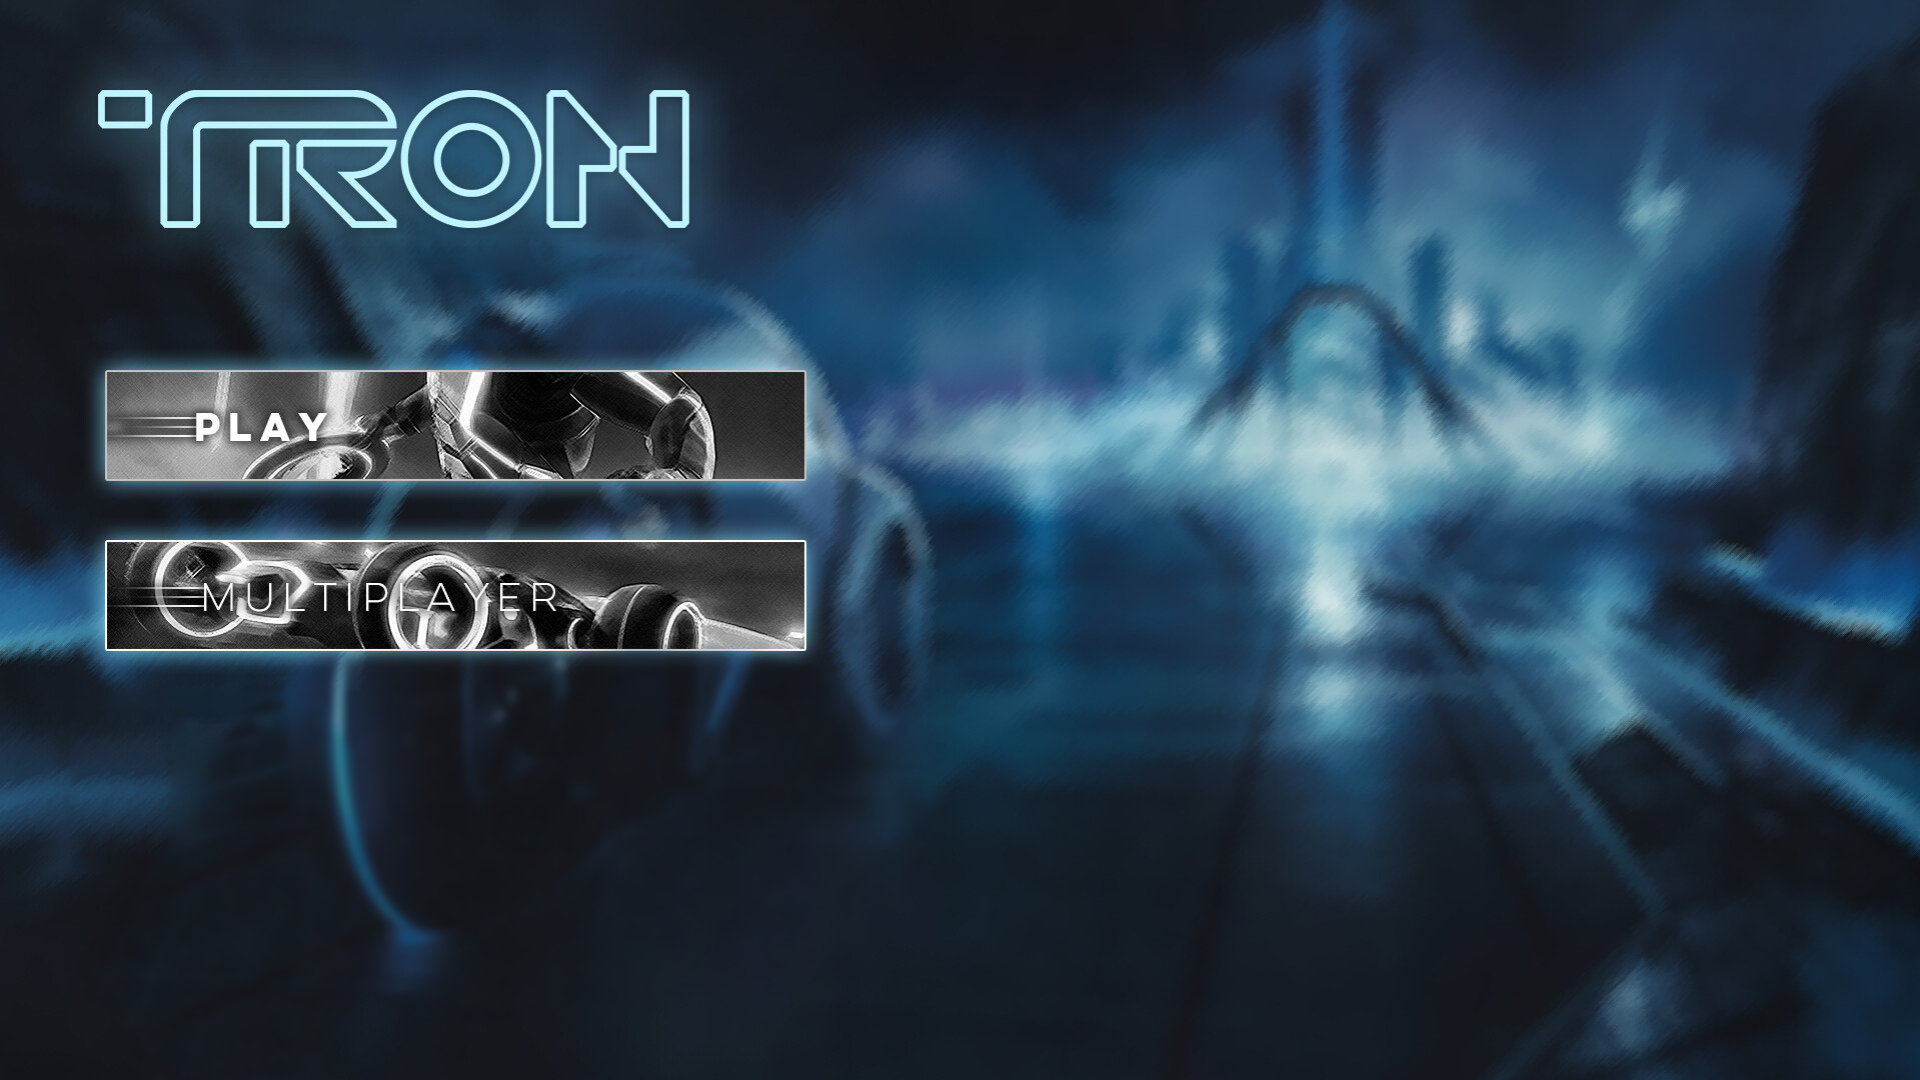
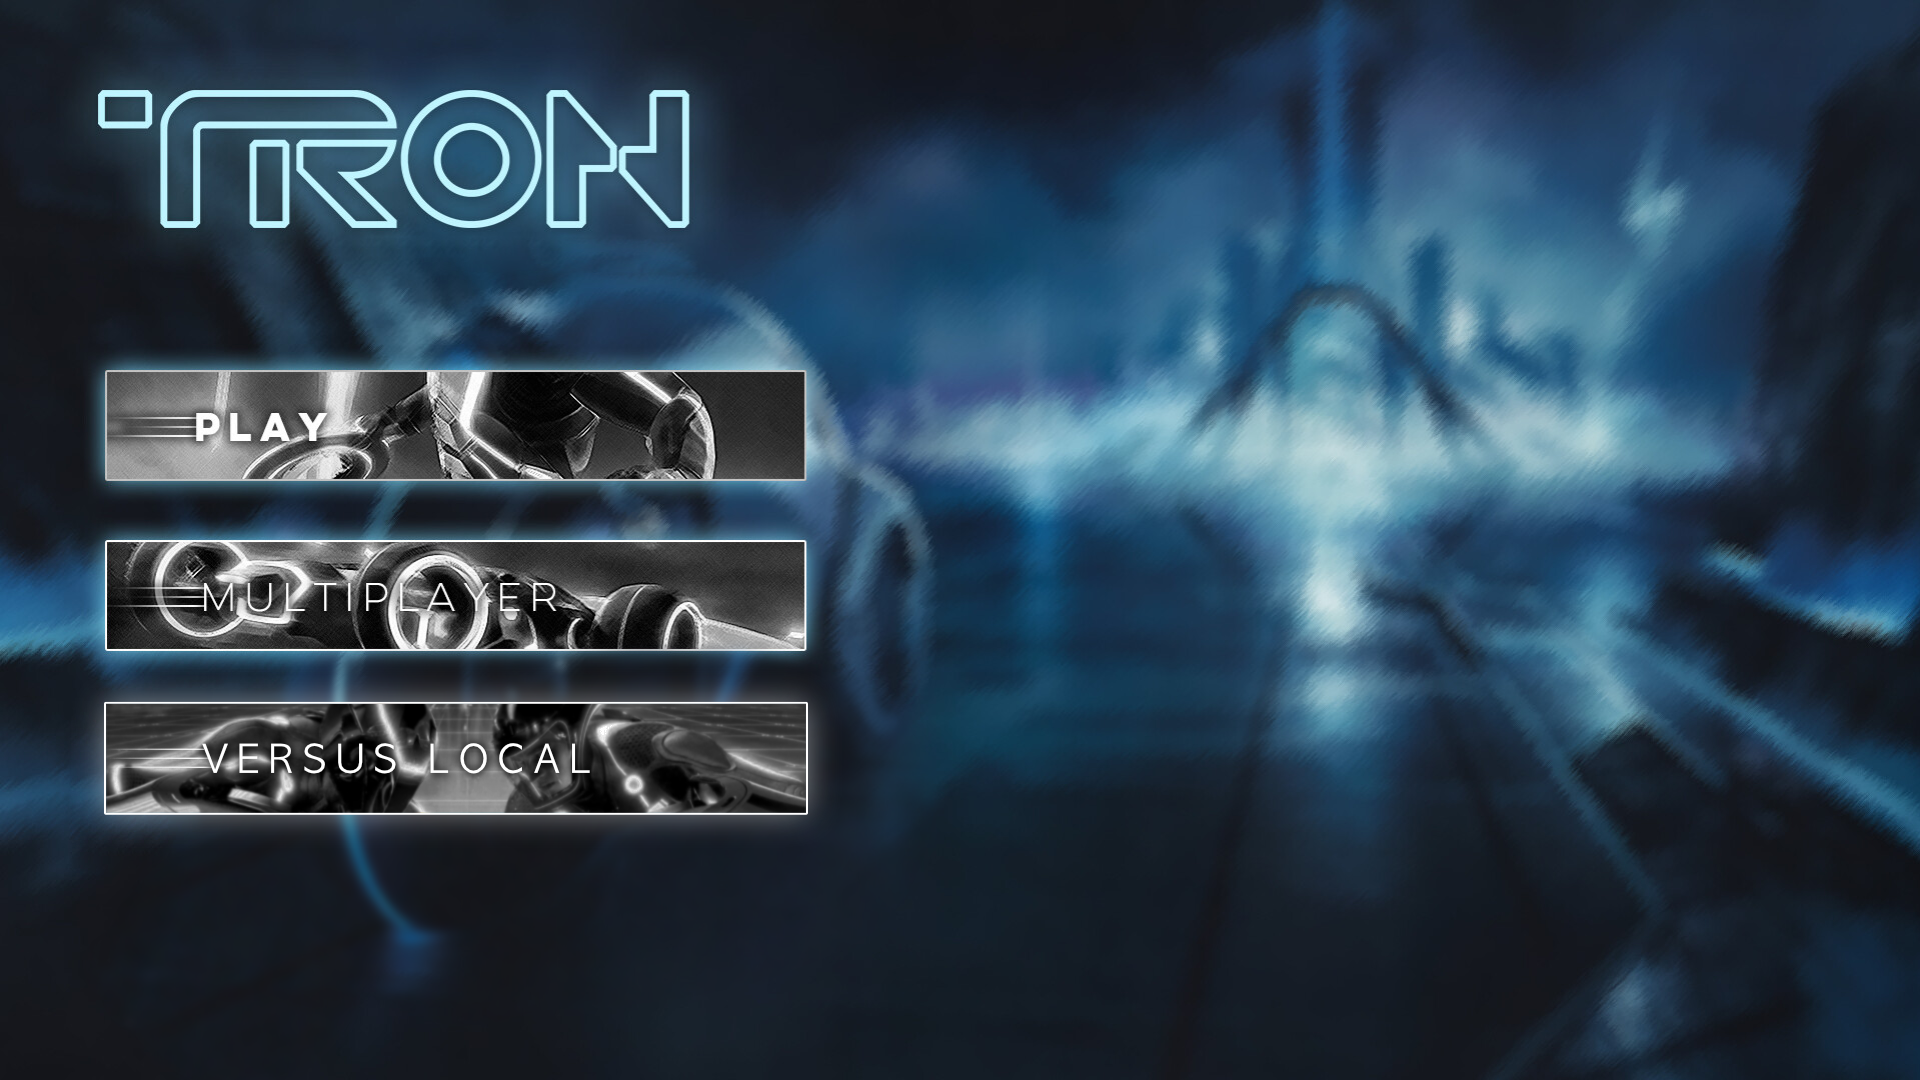
add versus local

Changed region(s): [[0.0312, 0.6417, 0.4375, 0.7639]]

diff --git a/src/Online/server.cpp b/src/Online/server.cpp
@@ -8,42 +8,66 @@
 #include <thread>
 #include "tools.hpp"
 #include "player.hpp"
+#include "timer.hpp"
+
+void	simulateGame(NetworkLogic& networkLogic, GameBoard& board, int time) {
+	static bool start = false;
+
+	if (time > 2000 && !start) {
+		start = true;
+		time = 0;
+		unsigned long sendAt = GETTIMEMS();
+		std::string message = "S " + std::to_string(sendAt);
+		std::cout << "SENDING : " << message << std::endl;
+		networkLogic.sendDirect(message);
+	}
+	if (!start) {
+		board.turn();
+		return;
+	}
+	while (time > 15) {
+		time -= 15;
+		board.turn();
+		board.move();
+	}
+}
 
 void	gameStartedServer(NetworkLogic& networkLogic) {
-	// GameBoard	gameBoard;
-	// int			nbPlayer = networkLogic.getNumberOfPlayer();
-	// std::vector<DIRECTION>	direction;
+	GameBoard	gameBoard;
+	int			nbPlayer = networkLogic.getNumberOfPlayer();
+	Timer		gameTimer;
+	int			time = 0;
 
-	// gameBoard.initBoard(NULL, nbPlayer, 0);
+	gameBoard.initBoard(NULL, nbPlayer, 0);
 	// for (int i = 0; i < nbPlayer; i++) {
 	// 	direction.push_back(gameBoard.getDirection(i));
 	// }
+	gameTimer.start();
 	while (1) {
 		if (networkLogic.isUpdate()) {
 			std::vector<std::string> updates = networkLogic.getUpdate();
 			for (std::string str : updates) {
 				if (str[0] == 'D') {
-					// int n = str[1] - '0';
-					// int d = str[2] - '0';
-					// gameBoard.setNextDirection(n, (DIRECTION)d);
+					int n = str[1] - '0' - 1;
+					int d = str[2] - '0';
+					gameBoard.setNextDirection(n, (DIRECTION)d);
+					std::cout << "get HEAD : " << n << std::endl;
+					auto [x, y] = gameBoard.getHead(n);
 					std::cout << "SERVER SEND MESSAGE" << std::endl;
-					networkLogic.sendDirect(str);
+					unsigned long sendAt = GETTIMEMS();
+					std::string messsage = str + " " + std::to_string(x) + " " + std::to_string(y) + " " + std::to_string(sendAt);
+					networkLogic.sendDirect(messsage);
 				}
 				networkLogic.setUpdate(false);
 			}
 		}
+		time += gameTimer.getTicks();
+		simulateGame(networkLogic, gameBoard, time);
+		gameTimer.start();
 		networkLogic.run();
 		Console::get().update();
 		SLEEP(10);
-
 	}
-	// 	gameBoard.turn();
-	// 	gameBoard.move();
-	// 	networkLogic.sendDirect(gameBoard.gameBoardToString());
-	// 	networkLogic.run();
-	// 	Console::get().update();
-	// 	SLEEP(10);
-	// }
 }
 
 void	lobbyServer(NetworkLogic& networkLogic) {

diff --git a/src/Player/gameBoard.cpp b/src/Player/gameBoard.cpp
@@ -5,7 +5,33 @@
 #include <iostream>
 #include <sstream>
 
+
+void	GameBoard::initBoardLocal(SDL_Renderer *renderer) {
+	nbPlayers = 2;
+	currentPlayer = 0;
+	std::vector<std::string>	color = {"Blue", "Orange", "Green", "Purple"};
+	std::vector<Position>		playerSpawnPosition({{10, 10}, {164, 120}, {164, 10},  {10, 120}});
+	std::vector<DIRECTION>		playerSpawnDirection({DIRECTION::RIGHT, DIRECTION::LEFT, DIRECTION::RIGHT, DIRECTION::LEFT});
+
+	map = std::vector<std::vector<CELL_TYPE>>(MAP_HEIGHT, std::vector<CELL_TYPE>(MAP_WIDTH, CELL_TYPE::EMPTY));
+	for (int i = 0; i < 2; i++) {
+		players.push_back({playerSpawnPosition[i].first, playerSpawnPosition[i].second, playerSpawnDirection[i], &map});
+		players[i].initPlayer(renderer, i);
+	}
+	if (renderer != NULL) {
+		std::string boardTexturePath = "ressources/twoPlayerLocal/background.png";
+		boardTexture = IMG_LoadTexture(renderer, boardTexturePath.c_str());
+	} 
+
+}
+
 void	GameBoard::initBoard(SDL_Renderer *renderer, int nbPlayers_, int currentPlayer_) {
+	std::cout << "[[--HERE--]] : " << currentPlayer_ << std::endl;
+	if (currentPlayer_ == -1) {
+		initBoardLocal(renderer);
+		std::cout << "[[HERE]]" << std::endl;
+		return ;
+	}
 	nbPlayers = nbPlayers_;
 	currentPlayer = currentPlayer_;
 	std::vector<std::string>	color = {"Blue", "Orange", "Green", "Purple"};
@@ -110,4 +136,12 @@ void		GameBoard::increaseScore(int player) {
 
 int			GameBoard::getScore(int player) {
 	return players[player].getScore();
+}
+
+Position	GameBoard::getHead(int player) {
+	return players[player].getHead();
+}
+
+void		GameBoard::updatePlayer(int player, int x, int y, DIRECTION direction_) {
+	players[player].updatePlayer(x, y, direction_);
 }

diff --git a/src/Scenes/onlineGameScene.cpp b/src/Scenes/onlineGameScene.cpp
@@ -1,9 +1,11 @@
+#include "networkLogic.h"
 #include "game.hpp"
 #include "tools.hpp"
 #include <iostream>
 #include "timer.hpp"
 #include <string>
 #include "online.hpp"
+#include <sstream>
 
 void OnlineGameScene::handleEvents(Game* game) {
 	static SDL_Event	event;
@@ -68,19 +70,32 @@ void OnlineGameScene::updateScene(GameWindow& window, int deltaTime) {
 	Scene::updateScene(window, deltaTime);
 	static bool start = false;
 
-	if (time > 2000 && !start) {
-		start = true;
-		time = 0;
-	}
-
 	gameOnlineInfo *gameInfo = &game->getGameInfo();
 	if (gameInfo->updateServer) {
 		if (gameInfo->updateType == UpdateType::UPDATE_GAME) {
 			std::string	str = gameInfo->gameBoardStr;
-			int n = str[1] - '0' - 1;
-			int d = str[2] - '0';
-			std::cout << "n: " << n << " d: " << d << std::endl;
-			board.setNextDirection(n, (DIRECTION)d);
+			if (str[0] == 'S') {
+				unsigned long sendAt = std::stoul(str.substr(2));
+				time = sendAt - GETTIMEMS();
+				start = true;
+			} else {
+				std::string		str1;
+				int				x;
+				int				y;
+				unsigned long	sendAt;
+				//lis x, y et le temps ou le message a ete recu a partir du 4eme caractere
+				std::stringstream ss(str);
+				ss >> str1 >> x >> y >> sendAt;
+				time = GETTIMEMS() - sendAt;
+
+				std::cout << "NEW TIME : " << time << std::endl;
+
+				int n = str1[1] - '0' - 1;
+				int d = str1[2] - '0';
+				std::cout << "n: " << n << " d: " << d << std::endl;
+				board.setNextDirection(n, (DIRECTION)d);
+				// board.updatePlayer(n, x, y, (DIRECTION)d);
+			}
 		}
 		gameInfo->updateServer = false;
 	}

diff --git a/src/Scenes/twoPlayerLocalScene.cpp b/src/Scenes/twoPlayerLocalScene.cpp
@@ -56,7 +56,9 @@ void TwoPlayerLocalScene::handleEvents(Game* game) {
 
 void TwoPlayerLocalScene::initScene(GameWindow& window) {
 	std::cout << "[[TwoPlayerLocalScene]]" << std::endl;
-	board.initBoard(window.getRenderer(), 2, 0);
+	board.initBoard(window.getRenderer(), 2, -1);
+	crownP1 = IMG_LoadTexture(window.getRenderer(), "ressources/twoPlayerLocal/blue_crown.png");
+	crownP2 = IMG_LoadTexture(window.getRenderer(), "ressources/twoPlayerLocal/orange_crown.png");
 }
 
 void TwoPlayerLocalScene::updateScene(GameWindow& window, int deltaTime) {
@@ -95,6 +97,13 @@ void TwoPlayerLocalScene::updateScene(GameWindow& window, int deltaTime) {
 
 void TwoPlayerLocalScene::renderObjects(GameWindow& window) {
 	board.render(window.getRenderer());
-	window.drawNumber(board.getScore(0), 254, 370);
-	window.drawNumber(board.getScore(1), 254, 670);
+	if (board.getScore(0) > board.getScore(1)) {
+		SDL_Rect rect = {97, 326, 327 , 253};
+		SDL_RenderCopy(window.getRenderer(), crownP1, NULL, &rect);
+	} else if (board.getScore(1) > board.getScore(0)) {
+		SDL_Rect rect = {97, 666, 327 , 253};
+		SDL_RenderCopy(window.getRenderer(), crownP2, NULL, &rect);
+	}
+	window.drawNumber(board.getScore(0), 260, 490, 3);
+	window.drawNumber(board.getScore(1), 254, 828, 3);
 }

diff --git a/src/Scenes/mainMenuScene.cpp b/src/Scenes/mainMenuScene.cpp
@@ -35,6 +35,10 @@ void MainMenuScene::initScene(GameWindow& window) {
 	// Button multiPlayer(window.getRenderer(), {105, 540, 701, 111}, NULL, goToTwoPlayers);
 	Button multiPlayer(window.getRenderer(), {105, 540, 701, 111}, NULL, joinOrCreateRoom);
 	multiPlayer.addOverTexture(window.getRenderer(), {15, 166, 255, 152});
+
+	Button localVersus(window.getRenderer(), {105, 704, 701, 111}, NULL, goToTwoPlayers);
+	localVersus.addOverTexture(window.getRenderer(), {15, 166, 255, 152});
+
 	SDL_Texture *exitButtonOff = IMG_LoadTexture(window.getRenderer(), "ressources/menu/btn/btnOff.png");
 	SDL_Texture *exitButtonOn = IMG_LoadTexture(window.getRenderer(), "ressources/menu/btn/btnOn.png");
 	Button exit(window.getRenderer(), {108, 934, 185, 74}, exitButtonOff, exitGame);
@@ -46,7 +50,7 @@ void MainMenuScene::initScene(GameWindow& window) {
 	buttons.push_back(play);
 	buttons.push_back(multiPlayer);
 	buttons.push_back(exit);
-	// buttons.push_back(settings);
+	buttons.push_back(localVersus);
 	music = Mix_LoadMUS("ressources/mainMenu.mp3");
 	if (!music) {
 		fprintf(stderr, "Erreur lors du chargement de la musique [%s]: %s\n", "ressources/mainMenu.mp3", Mix_GetError());

diff --git a/inc/player.hpp b/inc/player.hpp
@@ -69,6 +69,7 @@ class TronPlayer {
 		void		turn();
 		void		setNextDirection(DIRECTION direction);
 		void		setDirection(DIRECTION direction);
+		void		updatePlayer(int x, int y, DIRECTION direction_);
 		DIRECTION	getDirection();
 		DIRECTION	getNextDirection();
 		void		increaseScore(int score);
@@ -101,12 +102,14 @@ class GameBoard {
 		GameBoard() {};
 		~GameBoard() {};
 		void		initBoard(SDL_Renderer *renderer, int nbPlayers_, int currentPlayer_);
+		void		initBoardLocal(SDL_Renderer *renderer);
 		void		move();
 		void		turn();
 		void		setNextDirection(int player, DIRECTION direction);
 		DIRECTION	getNextDirection(int player);
 		void		setDirection(int player, DIRECTION direction);
 		DIRECTION	getDirection(int player);
+		Position	getHead(int player);
 		bool		isAlive(int player);
 		void		die(int player);
 		void		render(SDL_Renderer *renderer);
@@ -115,6 +118,7 @@ class GameBoard {
 		void		reset();
 		void		increaseScore(int player);
 		int			getScore(int player);
+		void		updatePlayer(int player, int x, int y, DIRECTION direction_);
 	private:
 		std::vector<TronPlayer>							players;
 		Map												map;

diff --git a/src/Player/tronPlayer.cpp b/src/Player/tronPlayer.cpp
@@ -77,6 +77,18 @@ void	TronPlayer::setDirection(DIRECTION direction) {
 	this->direction = direction;
 }
 
+void	TronPlayer::updatePlayer(int x, int y, DIRECTION direction_) {
+	setNextDirection(direction_);
+	for (SnakeBody::iterator it = std::find(body.begin(), body.end(), std::make_pair(x, y)); it >= body.begin(); it--) {
+		map->at(it->second)[it->first] = CELL_TYPE::EMPTY;
+	}
+	if (std::find(body.begin(), body.end(), std::make_pair(x, y)) != body.end()) {
+		body.erase(body.begin(), std::find(body.begin(), body.end(), std::make_pair(x, y)));
+	}
+	body.insert(body.begin(), std::make_pair(x, y));
+	map->at(y)[x] = CELL_TYPE::SNAKE;
+}
+
 void	TronPlayer::setNextDirection(DIRECTION direction) {
 	this->nextDirection = direction;
 }

diff --git a/src/Online/client.cpp b/src/Online/client.cpp
@@ -32,6 +32,10 @@ void	gameStartedClient(NetworkLogic &networkLogic, gameOnlineInfo *gameInfo) {
 					gameInfo->updateServer = true;
 					gameInfo->gameBoardStr = str;
 					gameInfo->updateType = UpdateType::UPDATE_GAME;
+				} else if (str[0] == 'S') {
+					gameInfo->updateServer = true;
+					gameInfo->gameBoardStr = str;
+					gameInfo->updateType = UpdateType::UPDATE_GAME;
 				}
 			}
 			// std::string str = networkLogic.getUpdate();

diff --git a/inc/scene.hpp b/inc/scene.hpp
@@ -119,6 +119,8 @@ public:
 	void	updateScene(GameWindow& window, int deltaTime) override;
 private:
 	GameBoard	board;
+	SDL_Texture	*crownP1;
+	SDL_Texture	*crownP2;
 };
 
 class GameOverScene : public Scene {
